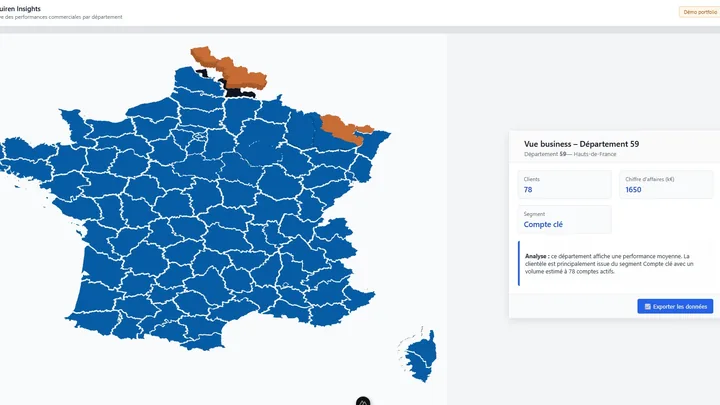
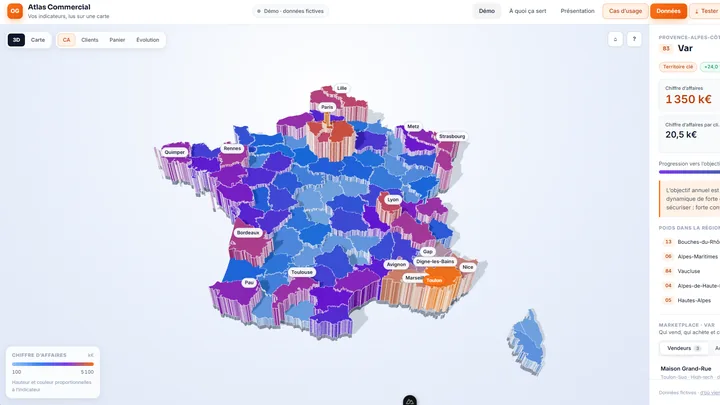
change data viz en atlas commercial

diff --git a/cv oussama ligne github/index.html b/cv oussama ligne github/index.html
@@ -539,26 +539,27 @@
             </div>
           </article>
           <article class="card project-card gallery-card"
-                   data-title="DataViz 3D — Tableau de bord"
-                   data-description="Prototype de tableau de bord interactif en 3D, conçu avec Nuxt 4 et Three.js, pour visualiser les performances commerciales par département sur une carte de France animée."
+                   data-title="Atlas Commercial — Indicateurs sur carte 3D"
+                   data-description="Un outil que je conçois et développe : les indicateurs commerciaux d'une entreprise posés sur une carte de France en 3D, région par région et département par département. Hauteur et couleur proportionnelles au chiffre, fiche détaillée au clic sur un territoire. Conçu avec Nuxt 4 et Three.js. La démonstration en ligne tourne sur des données fictives."
                    data-tech="Nuxt 4, Three.js, GSAP, CSS"
-                   data-link="https://api-visualizer.ogtech.fr/">
+                   data-link="https://api-visualizer.ogtech.fr/"
+                   data-link-label="Voir la démo">
             <div class="card-media">
               <picture>
                 <source srcset="assets/img/proj-dataviz.avif" type="image/avif">
-                <img src="assets/img/proj-dataviz.webp" alt="Tableau de bord DataViz 3D avec carte de France" loading="lazy" decoding="async" width="720" height="405">
+                <img src="assets/img/proj-dataviz.webp" alt="Atlas Commercial : carte de France en 3D, chiffre d'affaires par département" loading="lazy" decoding="async" width="720" height="405">
               </picture>
             </div>
             <div class="card-body">
-              <h3>DataViz 3D</h3>
-              <p>Tableau de bord interactif avec carte 3D et visualisation de données.</p>
+              <h3>Atlas Commercial</h3>
+              <p>Les indicateurs commerciaux d'une entreprise, lus sur une carte de France en 3D.</p>
               <ul class="tag-list tag-list-sm"><li>Nuxt 4</li><li>Three.js</li><li>GSAP</li></ul>
               <div class="card-actions">
                 <button type="button" class="btn btn-link card-open">
                 En savoir plus <svg class="ico" aria-hidden="true"><use href="#i-arrow-right"/></svg>
               </button>
                 <a class="btn btn-link card-visit" href="https://api-visualizer.ogtech.fr/" target="_blank" rel="noopener noreferrer">
-                  Voir le site<span class="sr-only"> DataViz 3D, nouvel onglet</span> <svg class="ico" aria-hidden="true"><use href="#i-arrow-up-right-from-square"/></svg>
+                  Voir la démo<span class="sr-only"> d'Atlas Commercial, nouvel onglet</span> <svg class="ico" aria-hidden="true"><use href="#i-arrow-up-right-from-square"/></svg>
                 </a>
               </div>
             </div>
@@ -749,7 +750,8 @@
             <span id="projectModalTech"></span>
           </p>
           <a id="projectModalLink" class="btn btn-primary" href="#" target="_blank" rel="noopener noreferrer">
-            Voir le site <svg class="ico" aria-hidden="true"><use href="#i-arrow-up-right-from-square"/></svg>
+            <span id="projectModalLinkLabel">Voir le site</span>
+            <svg class="ico" aria-hidden="true"><use href="#i-arrow-up-right-from-square"/></svg>
           </a>
         </div>
       </div>
@@ -955,6 +957,6 @@
           integrity="sha384-HOvlOYPIs/zjoIkWUGXkVmXsjr8GuZLV+Q+rcPwmJOVZVpvTSXQChiN4t9Euv9Vc" crossorigin="anonymous"></script>
   <script defer src="https://cdnjs.cloudflare.com/ajax/libs/gsap/3.13.0/ScrollTrigger.min.js"
           integrity="sha384-P8VzCVnT9NBUkMrpcIZrJbA7EBjJvh/fJS6PmP+4nLIM284DtsImIv8D0fFjIkeh" crossorigin="anonymous"></script>
-  <script type="module" src="js/main.js?v=4cdc49fd"></script>
+  <script type="module" src="js/main.js?v=c905137e"></script>
 </body>
 </html>

diff --git a/cv oussama ligne github/js/modules/modals.js b/cv oussama ligne github/js/modules/modals.js
@@ -91,6 +91,7 @@ function initProjectModal() {
     description: modal.querySelector('#projectModalDescription'),
     tech: modal.querySelector('#projectModalTech'),
     link: modal.querySelector('#projectModalLink'),
+    linkLabel: modal.querySelector('#projectModalLinkLabel'),
     image: modal.querySelector('#projectModalImage')
   };
 
@@ -99,7 +100,8 @@ function initProjectModal() {
       const card = btn.closest('.project-card');
       if (!card) return;
 
-      const { title = '', description = '', tech = '', link = '' } = card.dataset;
+      const { title = '', description = '', tech = '', link = '',
+              linkLabel = 'Voir le site' } = card.dataset;
       const img = card.querySelector('.card-media img');
 
       els.title.textContent = title;
@@ -118,6 +120,9 @@ function initProjectModal() {
 
       els.link.href = link || '#';
       els.link.hidden = !link;
+      // « Voir la demo » quand la version en ligne n'est pas le produit livre
+      // mais une demonstration ; « Voir le site » pour les autres.
+      if (els.linkLabel) els.linkLabel.textContent = linkLabel;
 
       open(modal, btn);
     });

diff --git a/cv oussama ligne github/js/main.js b/cv oussama ligne github/js/main.js
@@ -4,8 +4,8 @@ import { initGalleryNav } from './modules/gallery-nav.js?v=cde42612';
 import { initHeroAccent } from './modules/hero-accent.js?v=56e00700';
 import { initAmbient } from './modules/ambient.js?v=96390cda';
 import { initNpc } from './modules/npc.js?v=ae405782';
-import { initModals } from './modules/modals.js?v=7adfabd4';
-import { initContactForm } from './modules/contact-form.js?v=a1388e67';
+import { initModals } from './modules/modals.js?v=9ef4a1b4';
+import { initContactForm } from './modules/contact-form.js?v=b8528ca5';
 
 function init() {
   initNav();

diff --git a/cv oussama ligne github/js/modules/contact-form.js b/cv oussama ligne github/js/modules/contact-form.js
@@ -2,7 +2,7 @@
 
 import { showToast } from './toast.js?v=c089a5e8';
 import { initDefi } from './defi.js?v=9647ce21';
-import { closeModal } from './modals.js?v=7adfabd4';
+import { closeModal } from './modals.js?v=9ef4a1b4';
 import { poster } from './backend.js?v=1cacc4b2';
 
 /* 5 Mo : l'encodage Base64 ajoute ~33 %, ce qui reste sous les limites d'Apps Script. */

diff --git a/cv oussama ligne github/tools/images.py b/cv oussama ligne github/tools/images.py
@@ -38,12 +38,23 @@ from PIL import Image, ImageChops
 SOURCES = Path('../sources')          # hors du dossier servi
 SORTIE = Path('assets/img')
 
+# Source (dans ../sources, quelle que soit son extension) -> nom servi.
+# `atlas commercial` remplace `ecran_france3d` : c'est la meme realisation,
+# refaite depuis. L'ancienne capture reste dans ../sources, hors du dossier
+# servi, si jamais il fallait y revenir.
 PROJETS = {
     'ecran_accueil': 'proj-ilseco',
     'ecran_accueil_sohcook': 'proj-sohcook',
-    'ecran_france3d': 'proj-dataviz',
+    'atlas commercial': 'proj-dataviz',
     'vision7event': 'proj-7event',
 }
+
+# Extensions acceptees pour une source, dans l'ordre d'essai.
+EXTENSIONS_SOURCE = ('.jpg', '.jpeg', '.png', '.webp')
+
+# Recadrage ancre a gauche plutot qu'au centre, la ou le nom du produit occupe
+# le coin haut gauche de l'interface. Les autres restent centrees.
+ANCRAGE = {'atlas commercial': 'gauche'}
 TAILLE_PROJET = (720, 405)            # 16:9
 BOITE_LOGO = (320, 160)               # boîte optique commune aux logos
 
@@ -53,12 +64,19 @@ Q_LOGO_AVIF = 70
 Q_LOGO_WEBP = 90
 
 
-def recadrer(im, ratio):
-    """Recadre au ratio demandé, en gardant le haut de l'image."""
+def recadrer(im, ratio, ancrage='centre'):
+    """Recadre au ratio demandé, en gardant toujours le haut.
+
+    Les quatre captures sont plus larges que 16:9, donc c'est la largeur qui est
+    rognée. Par défaut au centre. `gauche` sert quand le nom du produit est posé
+    en haut à gauche de l'interface et qu'un recadrage centré le couperait : sur
+    une vignette, c'est la première chose qu'on doit reconnaître.
+    """
     w, h = im.size
     if w / h > ratio:
         nw = int(h * ratio)
-        return im.crop(((w - nw) // 2, 0, (w + nw) // 2, h))
+        x = 0 if ancrage == 'gauche' else (w - nw) // 2
+        return im.crop((x, 0, x + nw, h))
     return im.crop((0, 0, w, int(w / ratio)))
 
 
@@ -85,15 +103,24 @@ def ecrire(im, chemin_sans_ext, q_avif, q_webp):
     return avif.stat().st_size, webp.stat().st_size
 
 
+def source_de(nom):
+    """Le fichier source, quelle que soit son extension."""
+    for ext in EXTENSIONS_SOURCE:
+        chemin = SOURCES / f'{nom}{ext}'
+        if chemin.exists():
+            return chemin
+    return None
+
+
 def projets():
     print('Captures de projets (AVIF q60 + WebP q82)')
     total = 0
     for source, nom in PROJETS.items():
-        src = SOURCES / f'{source}.jpg'
-        if not src.exists():
-            print(f'  {nom:16} source absente : {src}')
+        src = source_de(source)
+        if src is None:
+            print(f'  {nom:16} source absente : {SOURCES / source}.*')
             continue
-        im = recadrer(Image.open(src).convert('RGB'), 16 / 9)
+        im = recadrer(Image.open(src).convert('RGB'), 16 / 9, ANCRAGE.get(source, 'centre'))
         im = im.resize(TAILLE_PROJET, Image.LANCZOS)
         a, w = ecrire(im, SORTIE / nom, Q_PROJET_AVIF, Q_PROJET_WEBP)
         total += a
